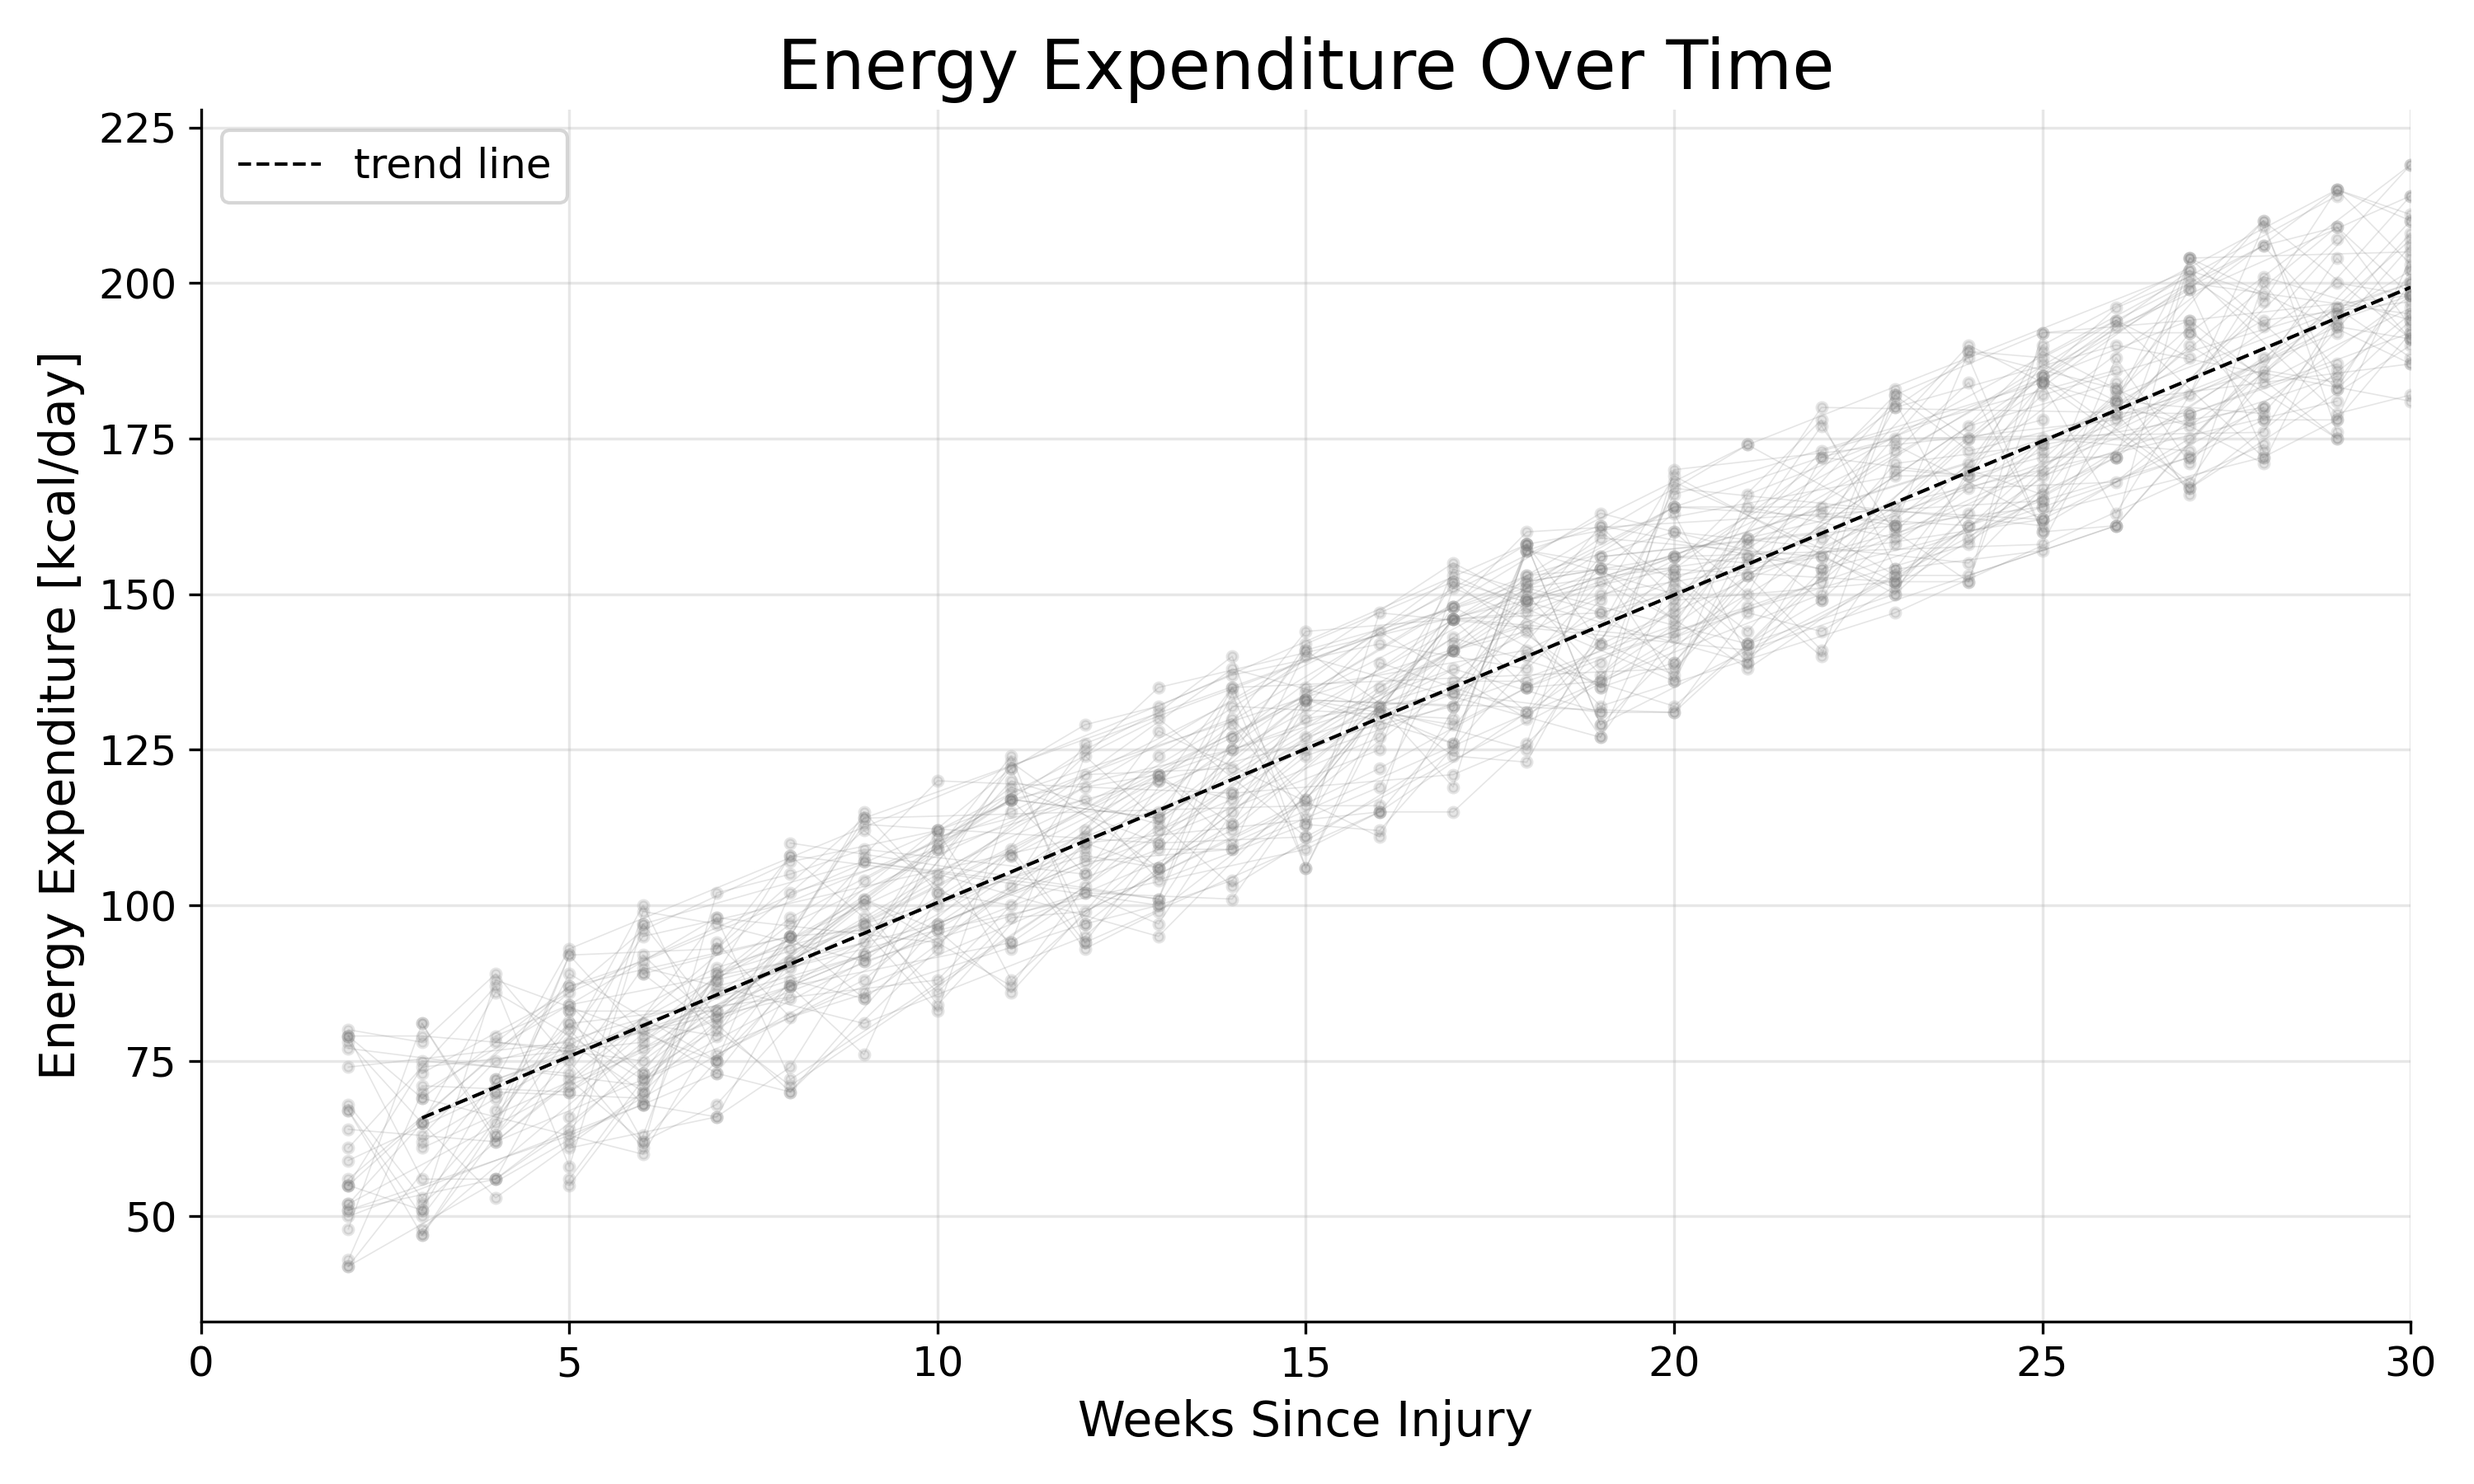
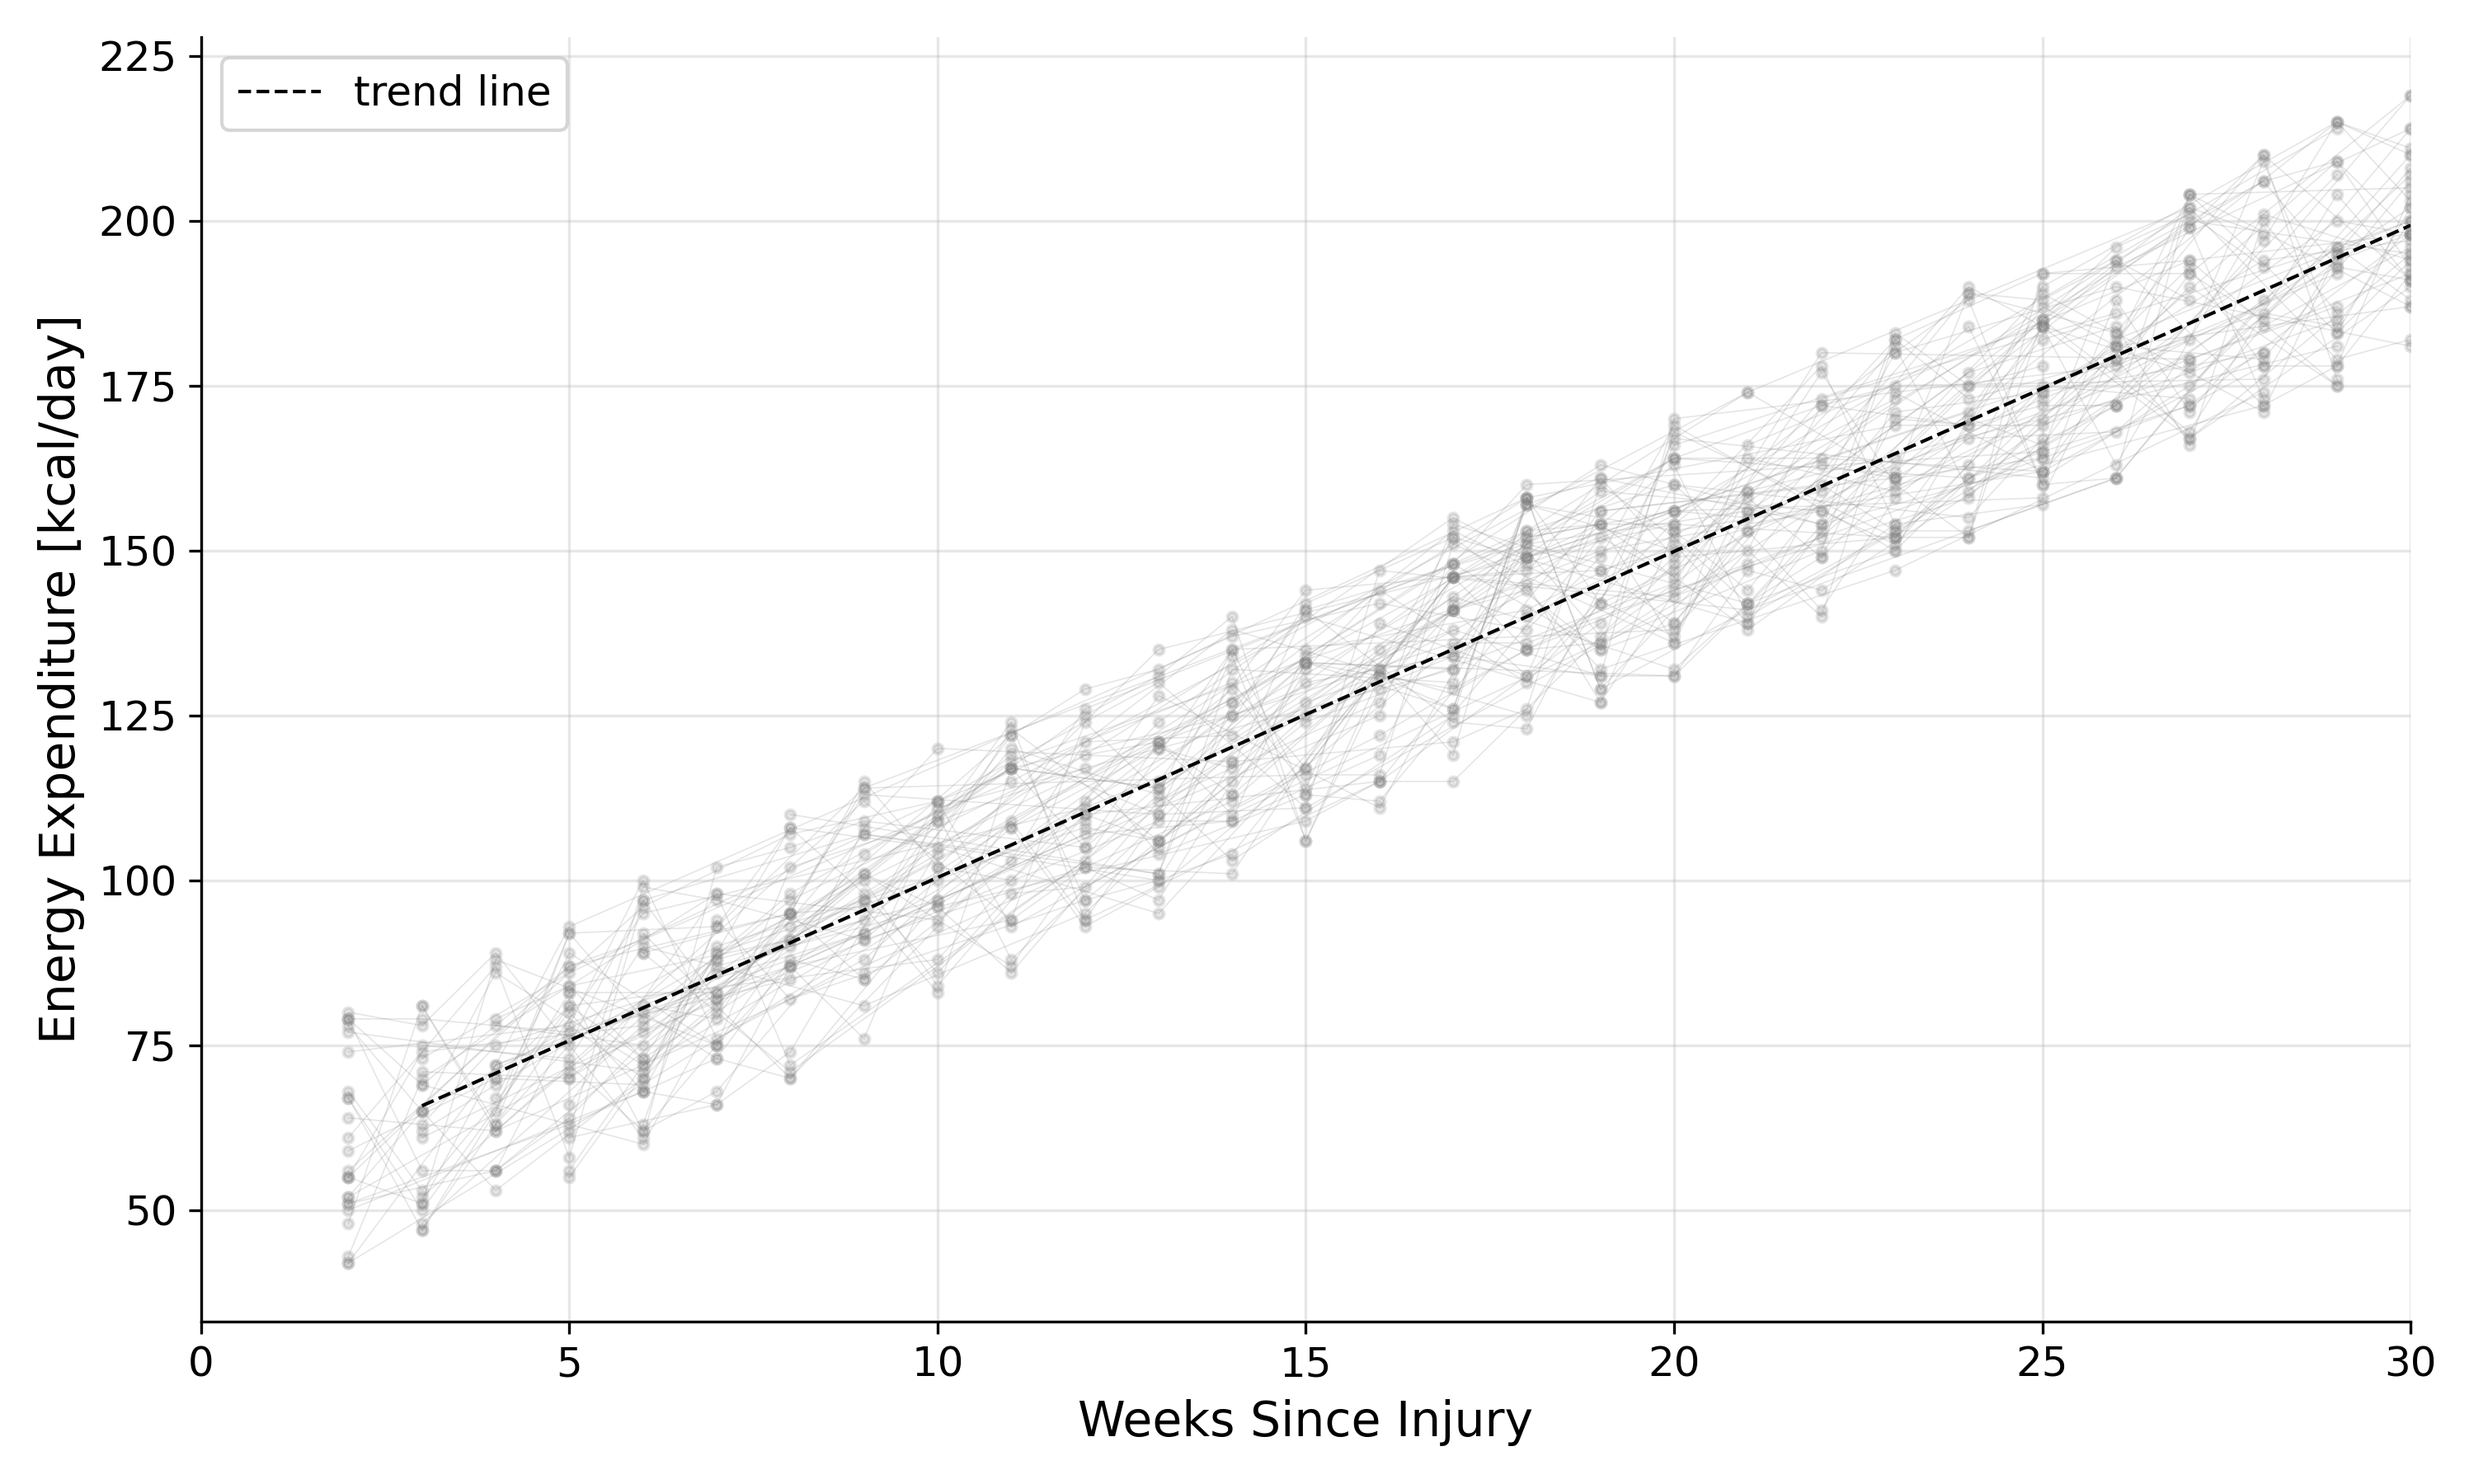
Script Titles

diff --git a/Code/Statistical_Analysis_Treatment_Effect.py b/Code/Statistical_Analysis_Treatment_Effect.py
@@ -101,7 +101,7 @@ plt.xticks(fontsize=14)
 plt.yticks(fontsize=14)
 plt.legend(fontsize=14)
 plt.grid(alpha=0.3)
-plt.savefig(directory + '/Figures/Trends_VerumPlacebo.png', dpi=300)
+plt.savefig(directory + '/Figures/Trends_Treatment_Effect.png', dpi=300)
 plt.close()
 
 
@@ -177,7 +177,7 @@ summary_df = pd.DataFrame({
 })
 
 # Save the DataFrame to a CSV file
-summary_csv_path = os.path.join(directory, 'Results/MixedModel_VerumPlacebo_Summary.csv')
+summary_csv_path = os.path.join(directory, 'Results/MixedModel_Treatment_Effect_Summary.csv')
 summary_df.to_csv(summary_csv_path, index=False)
 
 if print_results:
@@ -373,7 +373,7 @@ plt.grid()
 plt.ylim(-5, 105)
 plt.xlim(-1, 31)
 plt.tight_layout(pad=2.0)
-plt.savefig(directory + '/Figures/Intensities_VerumPlacebo.png', dpi=300)
+plt.savefig(directory + '/Figures/Intensities_Treatment_Effect.png', dpi=300)
 plt.close()
 
 

diff --git a/Code/Statistical_Analysis_General.py b/Code/Statistical_Analysis_General.py
@@ -38,7 +38,6 @@ individual_results = []  # For storing Participant-specific results
 plt.figure(figsize=(10, 6))
 week_numbers = np.arange(len(energy_expenditure.columns) - 1)
 plt.grid(alpha=0.3)
-plt.title('Energy Expenditure Over Time', fontsize=20)
 
 # Collect polynomial coefficients for each row
 for row in range(len(energy_expenditure.iloc[:, 0])):

diff --git a/Code/Statistical_Analysis_Injury_Competeness.py b/Code/Statistical_Analysis_Injury_Competeness.py
@@ -104,7 +104,7 @@ plt.legend()
 plt.grid()
 
 # Save the plot
-plt.savefig(directory + '/Figures/Trends_CompleteIncomplete.png', dpi=300)
+plt.savefig(directory + '/Figures/Trends_Injury_Completeness.png', dpi=300)
 plt.close()
 
 
